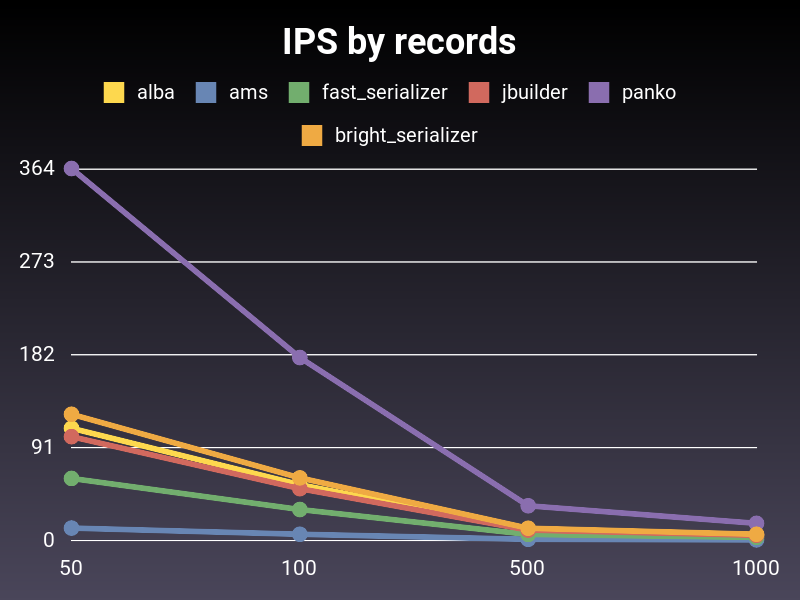
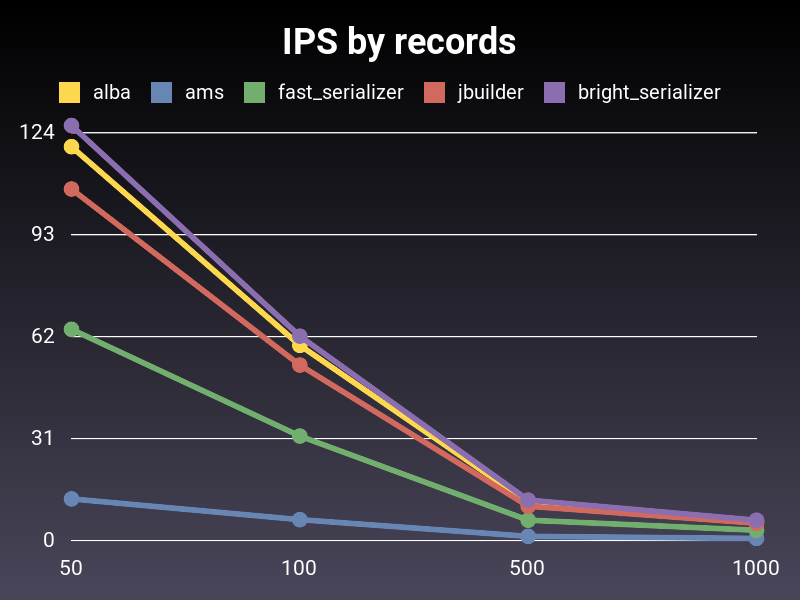
Update script

Changed region(s): [[0.0312, 0.12, 0.9688, 0.93], [0.2188, 0.63, 0.3125, 0.69]]

diff --git a/benchmarks/collection.rb b/benchmarks/collection.rb
@@ -331,9 +331,7 @@ class BrightPostSerializer
 
   attributes :id, :body
   attribute :commenter_names
-  attribute :comments do |object|
-    BrightCommentSerializer.new(object.comments)
-  end
+  has_many :comments, serializer: 'BrightCommentSerializer'
 
   attribute :commenter_names do |object|
     object.commenters.map(&:name)
@@ -440,7 +438,7 @@ iterations.each do |n|
     x.report(:fast_serializer, &fast_serializer)
     x.report(:jbuilder, &jbuilder)
     # x.report(:jserializer, &jserializer)
-    x.report(:panko, &panko)
+    # x.report(:panko, &panko)
     # x.report(:primalize, &primalize)
     # x.report(:rails, &rails)
     # x.report(:representable, &representable)

diff --git a/README.md b/README.md
@@ -213,7 +213,7 @@ Event if the main goal is not performance, it has very good result.
 ruby benchmarks/collection.rb
 ```
 
-![Ips](benchmarks/ips.png)
+<img src="benchmarks/ips.png" width="400px">
 
 ## Development
 
